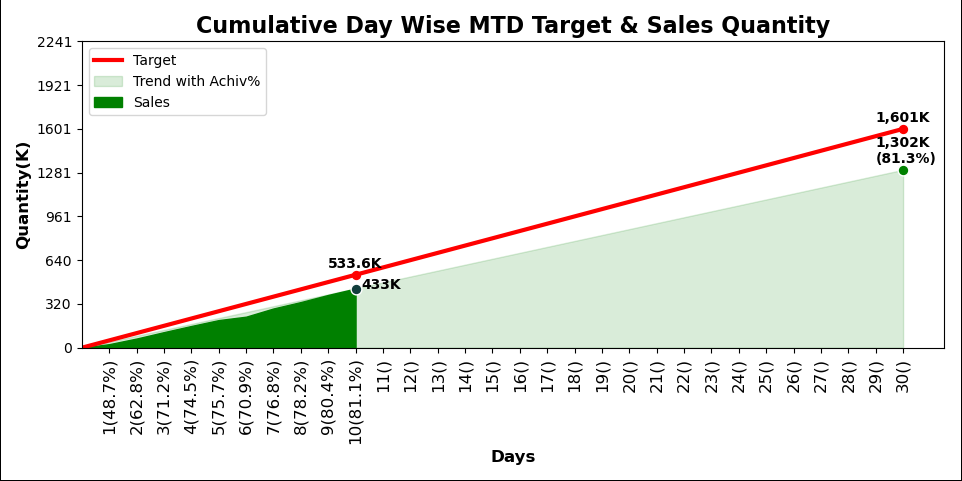
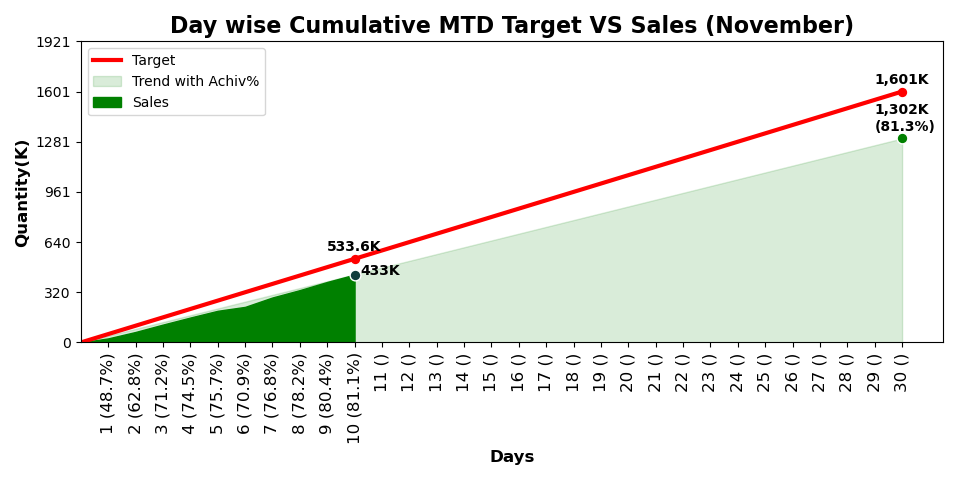
add month name in Cumulative_Day_wise_target_sales.png

diff --git a/Functions/cumulative_target_sales.py b/Functions/cumulative_target_sales.py
@@ -33,23 +33,23 @@ def cumulative_target_sales(name):
 
         day_wise_date = everday_sale_df['Date'].tolist()
         day_to_day_sale = everday_sale_df['ItemSales'].tolist()
-        print('day wise date list : ', day_wise_date)
-        print('day wise sales list : ', day_to_day_sale)
+        # print('day wise date list : ', day_wise_date)
+        # print('day wise sales list : ', day_to_day_sale)
 
         from datetime import date
         today = date.today()
 
         current_day = today.strftime("%d")
         current_day_in_int = int(current_day)
-        print("Current days in month till today: ", current_day_in_int)
+        # print("Current days in month till today: ", current_day_in_int)
 
         final_days_array = []
         final_sales_array = []
         for t_va in range(0, current_day_in_int-1):
             final_days_array.append(day_wise_date[t_va])
             final_sales_array.append(day_to_day_sale[t_va])
-        print('Reduced 0 value days from the list : ', final_days_array)
-        print('Sales Taken According to the value of days : ', final_sales_array)
+        # print('Reduced 0 value days from the list : ', final_days_array)
+        # print('Sales Taken According to the value of days : ', final_sales_array)
 
         EveryDay_target_df = pd.read_sql_query(""" Declare @CurrentMonth NVARCHAR(MAX);
                                 Declare @DaysInMonth NVARCHAR(MAX);
@@ -64,7 +64,7 @@ def cumulative_target_sales(name):
                                 """, connection, params={name})
 
         single_day_target = EveryDay_target_df['MonthsTargetQty'][0]
-        print('Single Day Target : ', single_day_target)
+        # print('Single Day Target : ', single_day_target)
 
         y_pos = np.arange(len(final_days_array))
 
@@ -73,7 +73,7 @@ def cumulative_target_sales(name):
         for z in y_pos:
             labell_to_plot.append(n)
             n = n + 1
-        print('Final label to plot : ', labell_to_plot)
+        # print('Final label to plot : ', labell_to_plot)
 
         # ----------------code for cumulitive sales------------
         import calendar
@@ -81,16 +81,16 @@ def cumulative_target_sales(name):
 
         now = datetime.datetime.now()
         total_days = calendar.monthrange(now.year, now.month)[1]
-        print('Total number of days in this month : ', total_days)
+        # print('Total number of days in this month : ', total_days)
 
         monthly_trend = (sum(final_sales_array) / (current_day_in_int-1))*total_days
-        print('Monthly Trend: ',monthly_trend)
+        # print('Monthly Trend: ',monthly_trend)
 
         monthly_trend_per_day = (sum(final_sales_array) / (current_day_in_int-1))
-        print('Monthly Trend Per Day: ', monthly_trend_per_day)
+        # print('Monthly Trend Per Day: ', monthly_trend_per_day)
 
         trend_achievement = str(round((sum(final_sales_array)/monthly_trend)*100,1))
-        print('Trend Achievement: ',trend_achievement)
+        # print('Trend Achievement: ',trend_achievement)
 
         final_target_day_wise = 0
         cumulative_target_that_needs_to_plot = []
@@ -101,8 +101,8 @@ def cumulative_target_sales(name):
             cumulative_target_that_needs_to_plot.append(final_target_day_wise / 1000)
             cumulative_trend_that_needs_to_plot.append(final_trend_day_wise/1000)
             final_target_day_wise = 0
-        print('cumulative target from 0 to final day of the month : ', cumulative_target_that_needs_to_plot)
-        print('cumulative trend from 0 to final day of the month : ', cumulative_trend_that_needs_to_plot)
+        # print('cumulative target from 0 to final day of the month : ', cumulative_target_that_needs_to_plot)
+        # print('cumulative trend from 0 to final day of the month : ', cumulative_trend_that_needs_to_plot)
 
         # new_array_of_cumulative_sales = [0]
         # final = 0
@@ -126,7 +126,7 @@ def cumulative_target_sales(name):
         for cum_value in final_cumulative:
             new_array_of_cumulative_sales.append(int(cum_value / 1000))
 
-        print('Cumulative sales list from 0 to current day of month : ', new_array_of_cumulative_sales)  #
+        # print('Cumulative sales list from 0 to current day of month : ', new_array_of_cumulative_sales)  #
         # --------------------------sales data
 
         # sys.exit()
@@ -135,11 +135,11 @@ def cumulative_target_sales(name):
         length_of_cumulative_sales = range(len(new_array_of_cumulative_sales))
 
         list_index_for_target = len(cumulative_target_that_needs_to_plot) - 1
-        print('index size for target : ', list_index_for_target)
+        # print('index size for target : ', list_index_for_target)
         # sys.exit()
 
         list_index_for_sale = len(new_array_of_cumulative_sales) - 1
-        print('index size for sale : ', list_index_for_sale)
+        # print('index size for sale : ', list_index_for_sale)
         # sys.exit()
 
         cumulative_achv_label=[]
@@ -147,18 +147,19 @@ def cumulative_target_sales(name):
             cumulative_achv=str(round((new_array_of_cumulative_sales[loop_value]/cumulative_target_that_needs_to_plot[loop_value])*100,1))+'%'
             cumulative_achv_label.append(cumulative_achv)
 
-        print('cumulative achievement list: ',cumulative_achv_label)
+        # print('cumulative achievement list: ',cumulative_achv_label)
 
         for z in range(0,(total_days-list_index_for_sale)):
             cumulative_achv_label.append('')
-        print('cumulative achv with Faka values: ',cumulative_achv_label)
+        # print('cumulative achv with Faka values: ',cumulative_achv_label)
 
         days_list=np.arange(1, total_days + 1, 1)
-        print('days list: ',days_list)
+        # print('days list: ',days_list)
 
         new_generated_label_list=[]
         for new_generated_label_value in range(0,total_days):
-            new_generated_label_list.append(str(days_list[new_generated_label_value])+'('+str(cumulative_achv_label[new_generated_label_value])+')')
+            new_generated_label_list.append(str(days_list[new_generated_label_value])+' ('+str(cumulative_achv_label[
+                                                                                                   new_generated_label_value])+')')
 
         fig, ax = plt.subplots(figsize=(9.6, 4.8))
 
@@ -201,7 +202,11 @@ def cumulative_target_sales(name):
         plt.xticks(np.arange(1, total_days + 1, 1), new_generated_label_list, fontsize=12,rotation=90)
         plt.xlabel('Days', color='black', fontsize=12, fontweight='bold')
         plt.ylabel('Quantity(K)', color='black', fontsize=12, fontweight='bold')
-        plt.title('Cumulative Day Wise MTD Target & Sales Quantity', color='black', fontweight='bold', fontsize=16)
+
+        date = datetime.datetime.now()
+        month = date.strftime("%B")
+        plt.title('Day wise Cumulative MTD Target VS Sales (' +str(month)+ ')', color='black', fontweight='bold',
+                  fontsize=16)
 
         plt.legend(['Target', 'Trend with Achiv%' ,'Sales'], loc='upper left')
         plt.yticks(
